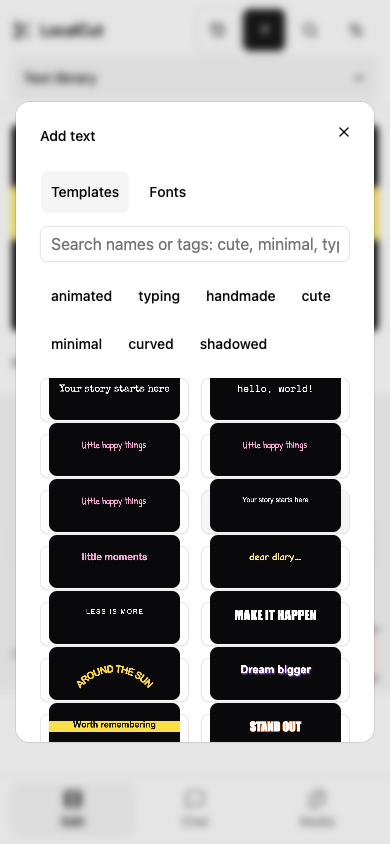
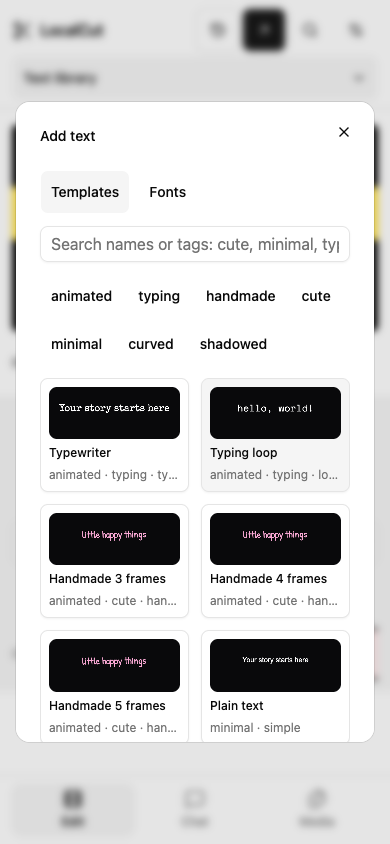
Fix animation draft samples, cycling text and narrow font cards

Changed region(s): [[0.5231, 0.4313, 0.8923, 0.8934], [0.1231, 0.4313, 0.4615, 0.8934]]

diff --git a/tests/browser/workspace-text.spec.ts b/tests/browser/workspace-text.spec.ts
@@ -27,6 +27,9 @@ for (const base of ['/', '/LocalCut/']) {
   test(`bundled font pages and editable animated templates ${base}`, async ({
     page,
   }) => {
+    const errors: string[] = [];
+    page.on('pageerror', (error) => errors.push(error.message));
+    await page.emulateMedia({ reducedMotion: 'no-preference' });
     await page.goto(base);
     const id = await page.evaluate(async (base) => {
       const { createEditor } = await import(base + 'editor.js');
@@ -82,6 +85,42 @@ for (const base of ['/', '/LocalCut/']) {
     await properties
       .getByRole('button', { name: 'Animation settings', exact: true })
       .click();
+    const sample = properties.locator('canvas');
+    const samplePixels = () =>
+      sample.evaluate((node: HTMLCanvasElement) => {
+        const pixels = node
+          .getContext('2d')!
+          .getImageData(0, 0, node.width, node.height).data;
+        let lit = 0;
+        for (let i = 0; i < pixels.length; i += 4)
+          if (pixels[i]! + pixels[i + 1]! + pixels[i + 2]! > 60) lit++;
+        return lit;
+      });
+    await properties.getByLabel('Milliseconds per frame').fill('');
+    await expect.poll(samplePixels).toBeGreaterThan(100);
+    expect(
+      await properties
+        .getByLabel('Milliseconds per frame')
+        .evaluate((node: HTMLInputElement) => node.checkValidity()),
+    ).toBe(false);
+    await properties.getByLabel('Milliseconds per frame').fill('100');
+    await properties
+      .getByLabel('Text variations (optional, one per frame)')
+      .fill('one\ntwo\nthree\nfour\nfive\nsix');
+    await expect.poll(samplePixels).toBeGreaterThan(100);
+    // Let a full-motion six-frame draft reach its formerly crashing sixth step.
+    await page.evaluate(
+      () =>
+        new Promise<void>((resolve) => {
+          const start = performance.now();
+          const tick = () => {
+            if (performance.now() - start >= 700) resolve();
+            else requestAnimationFrame(tick);
+          };
+          requestAnimationFrame(tick);
+        }),
+    );
+    expect(errors).toEqual([]);
     await properties.getByLabel('Milliseconds per frame').fill('240');
     await properties
       .getByLabel('Text variations (optional, one per frame)')
@@ -103,6 +142,8 @@ for (const base of ['/', '/LocalCut/']) {
     await properties
       .getByLabel('Text variations (optional, one per frame)')
       .fill('hello\nhey\nhi');
+    await properties.getByLabel('Text', { exact: true }).fill('');
+    await expect.poll(samplePixels).toBeGreaterThan(100);
     await properties
       .getByRole('button', { name: 'Apply properties', exact: true })
       .click();
@@ -117,6 +158,11 @@ for (const base of ['/', '/LocalCut/']) {
       loop: true,
       variations: ['hello', 'hey', 'hi'],
     });
+    expect(
+      (await snapshot(page, base, 'Animated library')).tracks[0]!.clips.find(
+        (clip) => clip.text?.animation,
+      )!.text!.text,
+    ).toBe('');
     await page.reload();
     expect(
       (await snapshot(page, base, 'Animated library')).tracks[0]!.clips.find(
@@ -270,6 +316,14 @@ for (const base of ['/', '/LocalCut/']) {
     await expect(library).toBeVisible();
     await expect(
       library.getByRole('button', { name: 'Insert Plain text', exact: true }),
+    ).toBeVisible();
+    await expect(
+      library.getByText('Typewriter', { exact: true }),
+    ).toBeVisible();
+    await expect(
+      library.getByText('animated · typing · typewriter · minimal', {
+        exact: true,
+      }),
     ).toBeVisible();
     if (base === '/')
       await page.screenshot({

diff --git a/src/workspace/TextLibrary.tsx b/src/workspace/TextLibrary.tsx
@@ -14,6 +14,7 @@ import {
 } from '../core/text-library';
 import type { TextStyleInput } from '../core/text-library';
 import { paintText } from '../media/text';
+import { textStyleSchema } from '../core/model';
 import {
   Combobox,
   ComboboxContent,
@@ -36,6 +37,12 @@ export function TextSample({
   const [error, setError] = useState('');
 
   useEffect(() => {
+    // Fields are drafts until the form is submitted. Paint a stable sample while
+    // an animation draft is incomplete instead of sending it to the evaluator.
+    const sample = textStyleSchema.shape.animation.safeParse(style.animation)
+      .success
+      ? style
+      : { ...style, animation: undefined };
     const element = canvas.current!;
     const ctx = element.getContext('2d')!;
     let disposed = false,
@@ -46,30 +53,33 @@ export function TextSample({
     const draw = (timeUs: number) => {
       ctx.clearRect(0, 0, 600, 240);
       ctx.save();
-      ctx.scale(0.5, 0.5);
-      ctx.translate(0, 160);
-      paintText(
-        ctx,
-        motion.matches && style.animation?.kind === 'typewriter'
-          ? { ...style, animation: undefined }
-          : style,
-        1200,
-        320,
-        timeUs,
-      );
-      ctx.restore();
+      try {
+        ctx.scale(0.5, 0.5);
+        ctx.translate(0, 160);
+        paintText(
+          ctx,
+          motion.matches && sample.animation?.kind === 'typewriter'
+            ? { ...sample, animation: undefined }
+            : sample,
+          1200,
+          320,
+          timeUs,
+        );
+      } finally {
+        ctx.restore();
+      }
     };
     const start = performance.now();
     const tick = (now: number) => {
       if (disposed || !visible || !ready) return;
       draw(
         motion.matches
-          ? style.animation?.kind === 'typewriter'
+          ? sample.animation?.kind === 'typewriter'
             ? 1e12
             : 0
           : (now - start) * 1000,
       );
-      if (style.animation && !motion.matches)
+      if (sample.animation && !motion.matches)
         frame = requestAnimationFrame(tick);
     };
     const observer = new IntersectionObserver(([entry]) => {
@@ -77,7 +87,7 @@ export function TextSample({
       cancelAnimationFrame(frame);
       if (visible && !ready) {
         setError('');
-        void ensureTextFont(style)
+        void ensureTextFont(sample)
           .then(() => {
             if (disposed) return;
             ready = true;
@@ -303,7 +313,7 @@ export function TextLibrary({
       )}
       <div
         ref={gallery}
-        className="grid grid-cols-2 gap-3 max-h-[calc(var(--app-viewport-height)*0.55)] overflow-y-auto"
+        className="grid auto-rows-max grid-cols-2 gap-3 max-h-[calc(var(--app-viewport-height)*0.55)] overflow-y-auto"
         aria-label={mode === 'templates' ? 'Text templates' : 'Font library'}
       >
         {shown.map((item) => (

diff --git a/tests/browser/workspace-connection.spec.ts b/tests/browser/workspace-connection.spec.ts
@@ -1,4 +1,5 @@
 import { openAISettings } from './workspace-settings-helper';
+import { dismissNotifications } from './workspace-notifications-helper';
 import { expect, test } from '@playwright/test';
 
 const cors = {
@@ -116,6 +117,8 @@ for (const base of ['/', '/LocalCut/']) {
       'synthetic-connection-key',
     );
     expect(requests).toBe(2);
+    // A hovered error toast can pause its expiry and cover the mobile Send button.
+    await dismissNotifications(page);
     reject = false;
     await composer.fill('Try again');
     await send.click();

diff --git a/tests/browser/text-rendering.spec.ts b/tests/browser/text-rendering.spec.ts
@@ -59,7 +59,7 @@ for (const base of ['/', '/LocalCut/']) {
           animation: { kind: 'handmade', stepMs: 50, loop: true, frames },
         })),
         {
-          text: 'one',
+          text: '',
           fontSize: 52,
           fontFamily: 'font-patrick-hand',
           animation: {
@@ -212,6 +212,7 @@ for (const base of ['/', '/LocalCut/']) {
       animation: { kind: 'typewriter', stepMs: 40 },
     });
     expect(result.restored[12]).toMatchObject({
+      text: '',
       animation: { variations: ['one', 'two', 'three'] },
     });
   });

diff --git a/src/media/composition.ts b/src/media/composition.ts
@@ -164,7 +164,12 @@ export class Renderer {
           .map((c) => c.text)
           .join('\n');
       }
-      if (text) {
+      if (
+        text ||
+        (clip.kind === 'text' &&
+          clip.text?.animation?.kind === 'handmade' &&
+          clip.text.animation.variations?.length)
+      ) {
         const style = clip.text ?? {
           text,
           fontSize: 48,

diff --git a/tests/browser/text-fonts.spec.ts b/tests/browser/text-fonts.spec.ts
@@ -89,7 +89,7 @@ for (const base of ['/', '/LocalCut/']) {
                 width: 640,
                 height: 360,
                 text: {
-                  text: 'Handmade',
+                  text: '',
                   fontFamily: 'font-inter',
                   animation: {
                     kind: 'handmade',

diff --git a/src/media/text.ts b/src/media/text.ts
@@ -10,8 +10,8 @@ export function paintText(
   height: number,
   timeUs = 0,
 ) {
-  ctx.save();
   const frame = textAnimationFrame(style, timeUs);
+  ctx.save();
   ctx.translate(width / 2 + frame.x, height / 2 + frame.y);
   ctx.rotate(frame.rotation);
   ctx.translate(-width / 2, -height / 2);

diff --git a/docs/workspace.md b/docs/workspace.md
@@ -84,7 +84,7 @@ Select a timeline clip to open its properties, split at the playhead or delete i
 
 Manual changes retain the revision shown in the workspace. If another window commits first, LocalCut rejects the stale change and refreshes the form. Review the latest values before retrying; concurrent edits are not silently overwritten.
 
-Add text opens a searchable library with Templates and Fonts views. Search names or labels such as cute, minimal, curved, shadowed and highlighted; select a card to create an editable three-second overlay at the playhead. Templates include placeholder text, font and formatting. The properties form exposes timing, text, a searchable font picker, size, alignment, bold/italic, spacing, curve, colors, outlines and shadow settings, with a live sample. Apply properties saves these through the engine; Undo/Redo, versions, reload and JSON backups retain them. The font library adds 1,787 bundled open-source families to the ten legacy system stacks. Search names and style/language tags in either picker; the gallery provides tag filters and pages of 24 samples. Font files load from the application origin only when visible or needed for rendering, with checksums and visible failures. Bold and italic on bundled faces use browser synthesis of the bundled upright face. Animated templates include typewriter reveals and looping three/four/five-frame handmade poses, with editable step timing, looping and optional text variations in Animation settings. Samples animate only while visible and respect reduced motion; worker preview and native exports evaluate deterministic clip-local timing. Workspace appearance fonts remain separate. Advanced effects and transitions are available through assistant proposals and the documented engine API. Local transcription and export can also be proposed by the assistant, with explicit approval before any job starts.
+Add text opens a searchable library with Templates and Fonts views. Search names or labels such as cute, minimal, curved, shadowed and highlighted; select a card to create an editable three-second overlay at the playhead. Templates include placeholder text, font and formatting. The properties form exposes timing, text, a searchable font picker, size, alignment, bold/italic, spacing, curve, colors, outlines and shadow settings, with a live sample. Apply properties saves these through the engine; Undo/Redo, versions, reload and JSON backups retain them. The font library adds 1,787 bundled open-source families to the ten legacy system stacks. Search names and style/language tags in either picker; the gallery provides tag filters and pages of 24 samples. Font files load from the application origin only when visible or needed for rendering, with checksums and visible failures. Bold and italic on bundled faces use browser synthesis of the bundled upright face. Animated templates include typewriter reveals and looping three/four/five-frame handmade poses, with editable step timing, looping and optional text variations in Animation settings. Incomplete animation settings show a stable sample until valid, and cycling text can use variations with an empty main text field. Gallery cards retain their names and tags while scrolling on narrow screens. Samples animate only while visible and respect reduced motion; worker preview and native exports evaluate deterministic clip-local timing. Workspace appearance fonts remain separate. Advanced effects and transitions are available through assistant proposals and the documented engine API. Local transcription and export can also be proposed by the assistant, with explicit approval before any job starts.
 
 See the [text library](images/text-library.png) and [narrow text library](images/text-library-narrow.png). Gallery samples, preview and export share the same text drawing function.
 

diff --git a/docs/api.md b/docs/api.md
@@ -131,4 +131,4 @@ Keep pitch uses bounded, stereo-coherent WSOLA in shared preview/export PCM comp
 
 ### Text animation
 
-`text.animation` optionally accepts `{ kind: 'typewriter' | 'handmade', stepMs: 40..2000, loop: boolean, frames?: 3..5, variations?: string[] }`. Variations contain three to five non-empty strings and override the handmade frame count. Typewriter reveals Unicode graphemes at each step; a looping reveal holds the completed text for eight steps. Handmade text uses deterministic discrete poses and optionally cycles the variations. Timing is relative to the clip start, identical on seeking, samples, preview and export. Static styles remain unchanged. History and backups retain animation without a storage migration; old parsers cannot read animation fields.
+`text.animation` optionally accepts `{ kind: 'typewriter' | 'handmade', stepMs: 40..2000, loop: boolean, frames?: 3..5, variations?: string[] }`. Variations contain three to five non-empty strings and override the handmade frame count and main text, including when the main text is empty. Typewriter reveals Unicode graphemes at each step; a looping reveal holds the completed text for eight steps. Handmade text uses deterministic discrete poses and optionally cycles the variations. Timing is relative to the clip start, identical on seeking, samples, preview and export. Static styles remain unchanged. History and backups retain animation without a storage migration; old parsers cannot read animation fields.
